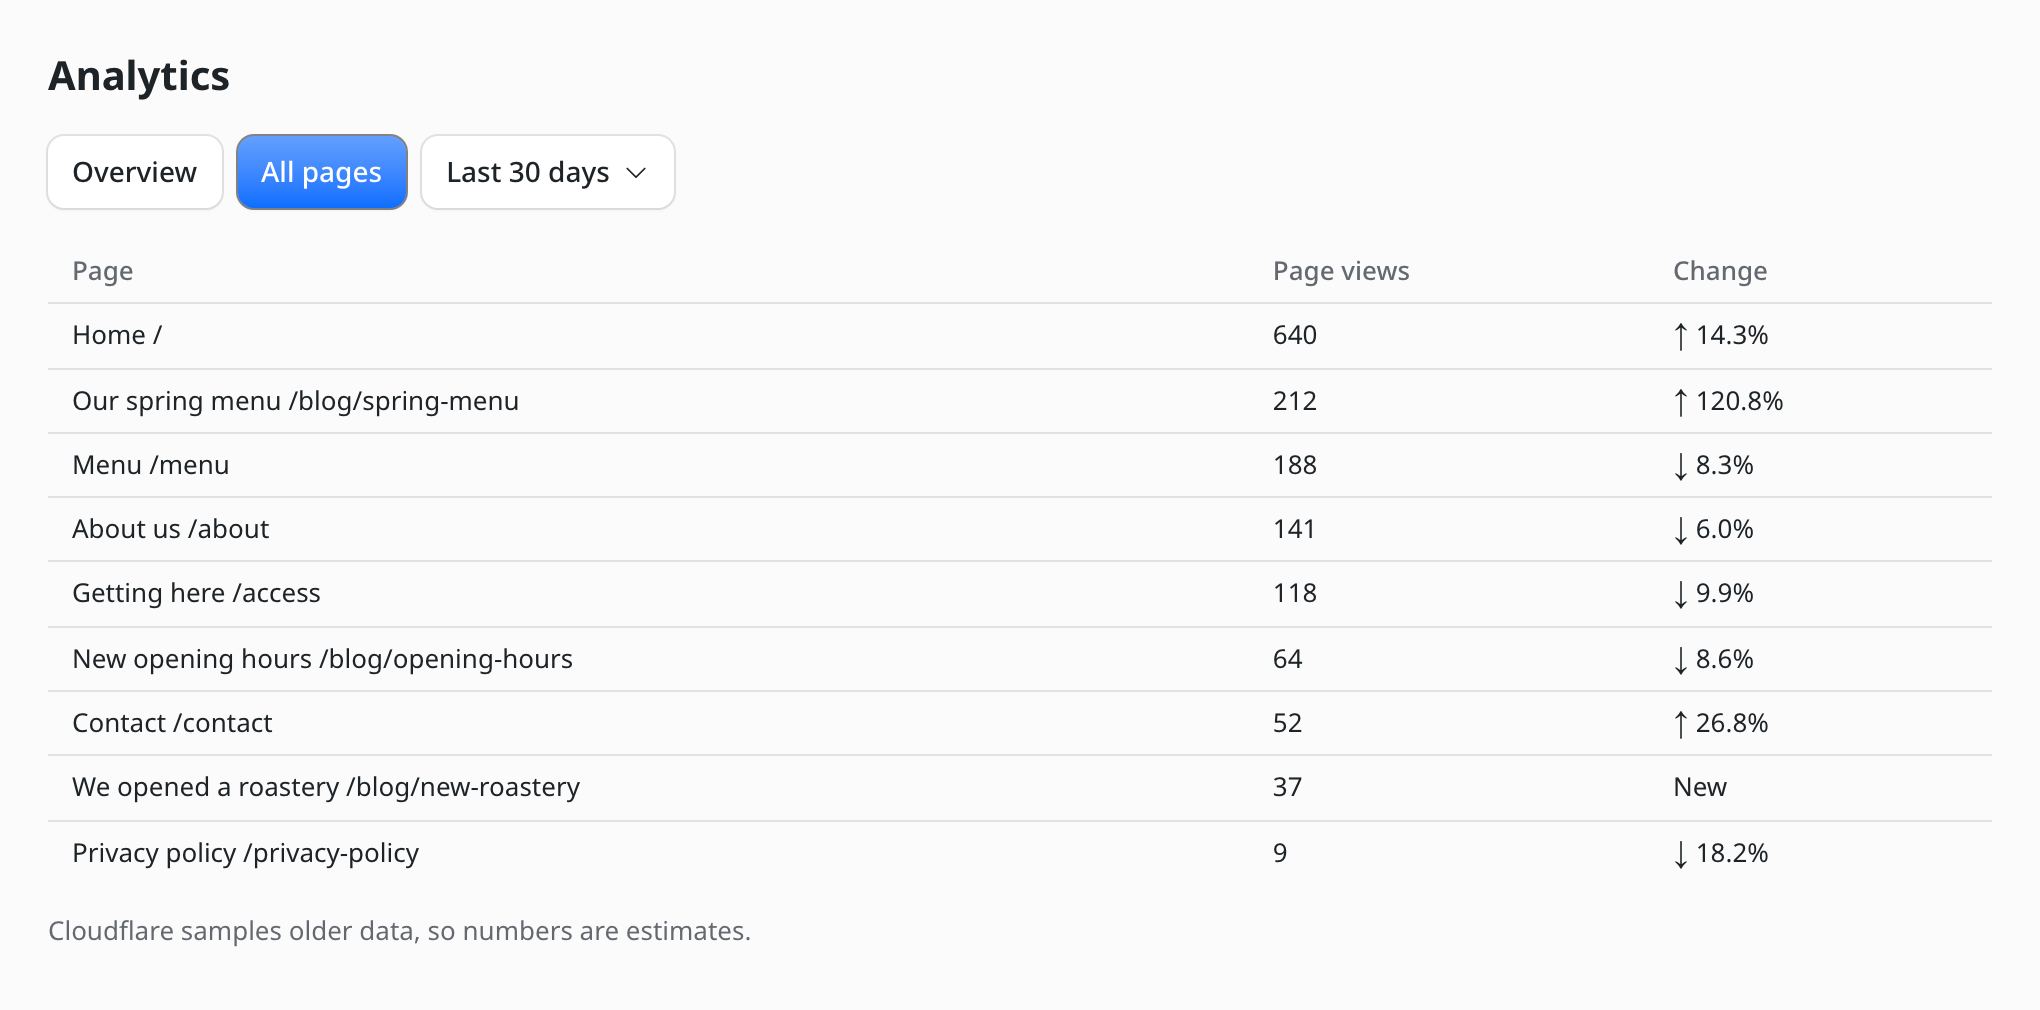
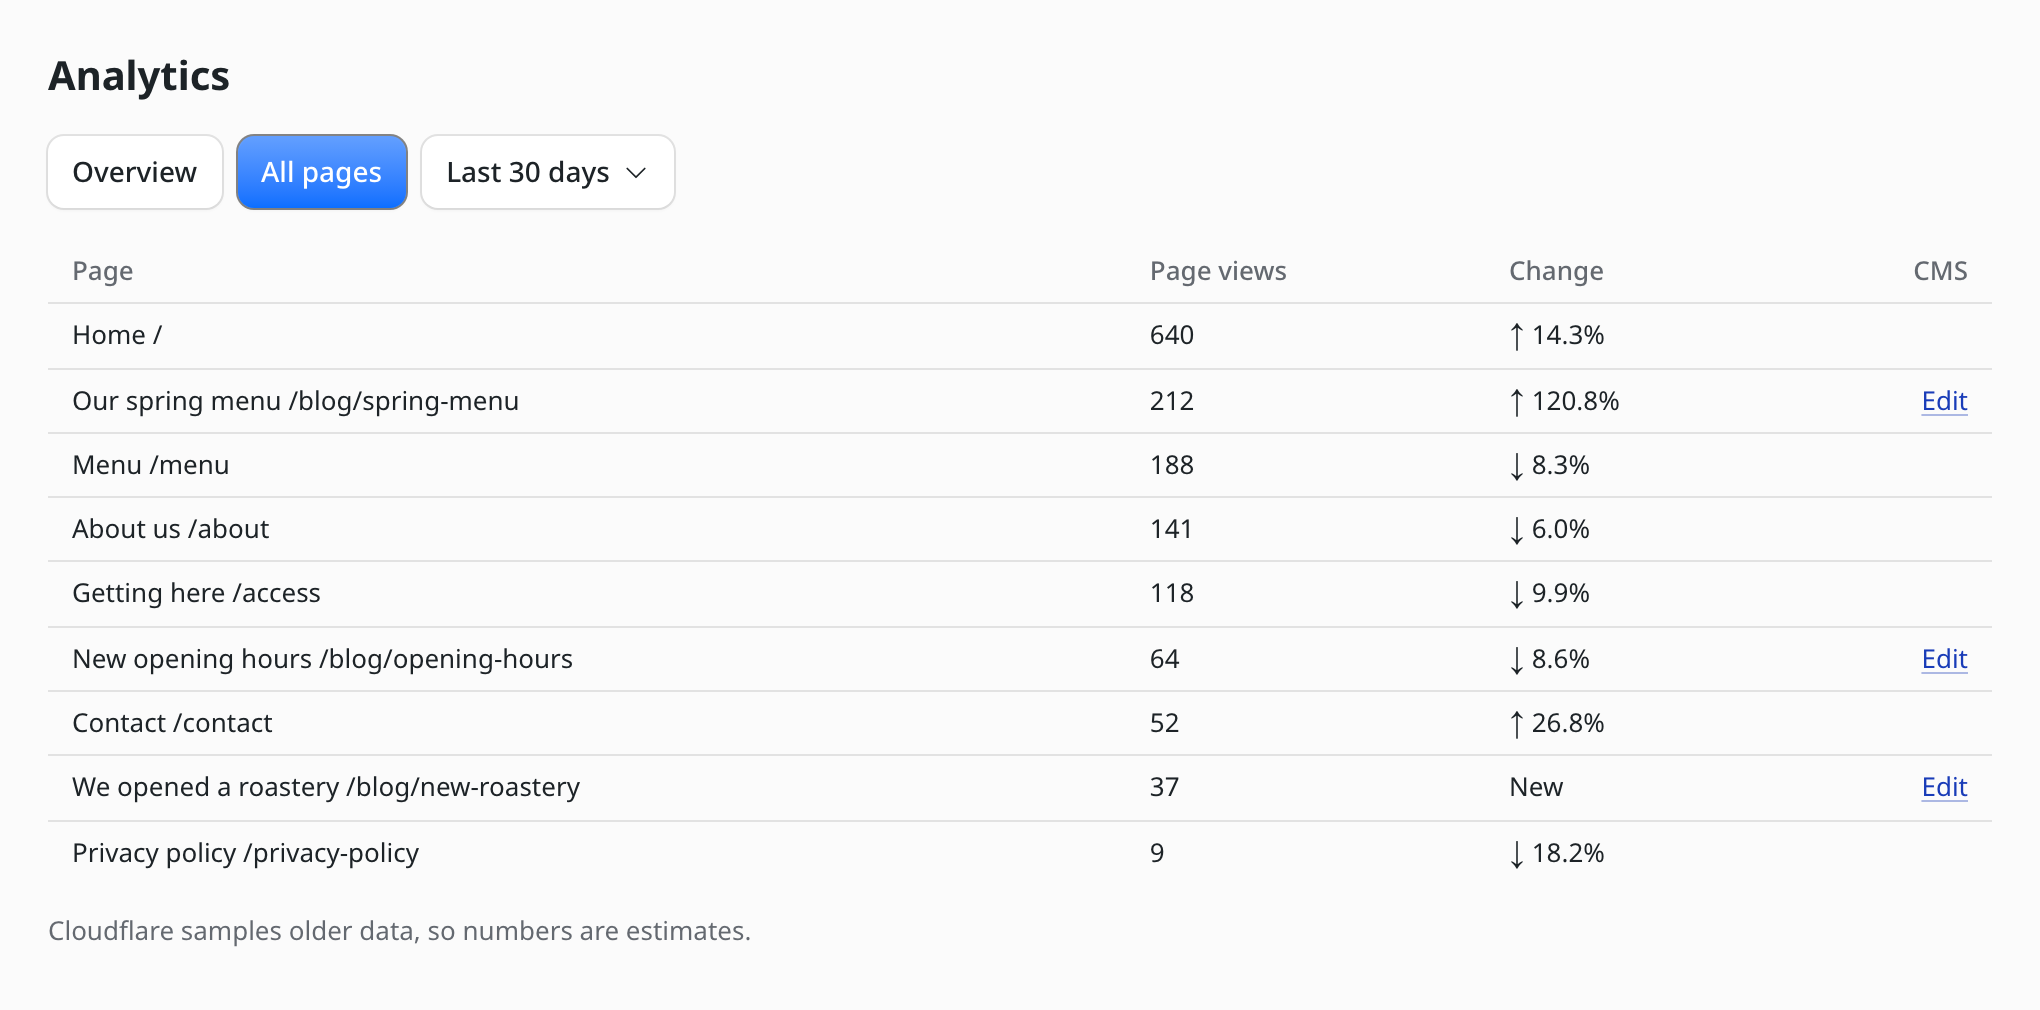
Link CMS pages in the page list to their editor
Studio marked CMS pages with a badge. A link to the entry's editor says
the same and saves the search. Renders now record the entry each page
shows along with its title.

diff --git a/src/view.ts b/src/view.ts
@@ -2,6 +2,7 @@ import type { Block, StatItem } from "@emdash-cms/blocks/server";
 
 import type { Report, Summary } from "./cloudflare.js";
 import type { Messages } from "./messages.js";
+import type { PageInfo } from "./pages.js";
 
 export const RANGES = [7, 30, 90] as const;
 export type Range = (typeof RANGES)[number];
@@ -45,11 +46,11 @@ function readablePath(path: string): string {
 	}
 }
 
-type Titles = Map<string, string>;
+type Pages = Map<string, PageInfo>;
 
 /** Studio's "Name /path" label; the home page's title is usually just the site name. */
-function pageLabel(path: string, titles: Titles, { messages }: View): string {
-	const name = path === "/" ? messages.home : titles.get(path);
+function pageLabel(path: string, pages: Pages, { messages }: View): string {
+	const name = path === "/" ? messages.home : pages.get(path)?.title;
 	return name ? `${name}  ${readablePath(path)}` : readablePath(path);
 }
 
@@ -124,7 +125,7 @@ function visitsStat(report: Summary, view: View): Block {
 	};
 }
 
-function insights(report: Report, titles: Titles, view: View): Block {
+function insights(report: Report, pages: Pages, view: View): Block {
 	const { messages, locale } = view;
 	const { totals, previous, days } = report;
 	const pageViewsChange = changeOf(totals.pageViews, previous.pageViews);
@@ -154,7 +155,7 @@ function insights(report: Report, titles: Titles, view: View): Block {
 		.filter((row): row is { page: Report["pages"][number]; change: number } => row.change !== null && row.change > 0)
 		.sort((a, b) => b.change - a.change)[0];
 	if (rising) {
-		items.push(stat(messages.trending(pageLabel(rising.page.path, titles, view)), rising.page.pageViews.toLocaleString(locale), rising.change, days, view));
+		items.push(stat(messages.trending(pageLabel(rising.page.path, pages, view)), rising.page.pageViews.toLocaleString(locale), rising.change, days, view));
 	}
 	return { type: "stats", items };
 }
@@ -232,7 +233,7 @@ function breakdowns(report: Report, view: View): Block {
 	};
 }
 
-export function reportPage(report: Report, titles: Titles, days: Range, view: View): Block[] {
+export function reportPage(report: Report, pages: Pages, days: Range, view: View): Block[] {
 	const { messages, locale } = view;
 	const top = report.pages.slice(0, TOP_PAGES);
 	const max = top[0]?.pageViews ?? 0;
@@ -249,7 +250,7 @@ export function reportPage(report: Report, titles: Titles, days: Range, view: Vi
 						? top.map(
 								(page): Block => ({
 									type: "meter",
-									label: pageLabel(page.path, titles, view),
+									label: pageLabel(page.path, pages, view),
 									value: page.pageViews,
 									max,
 									custom_value: page.pageViews.toLocaleString(locale),
@@ -264,13 +265,13 @@ export function reportPage(report: Report, titles: Titles, days: Range, view: Vi
 			],
 		},
 		{ type: "header", text: messages.insights(report.days) },
-		insights(report, titles, view),
+		insights(report, pages, view),
 		breakdowns(report, view),
 		{ type: "context", text: messages.sampled },
 	];
 }
 
-export function pagesPage(report: Report, titles: Titles, days: Range, view: View): Block[] {
+export function pagesPage(report: Report, pages: Pages, days: Range, view: View): Block[] {
 	const { messages, locale } = view;
 	return [
 		{ type: "header", text: messages.title },
@@ -283,14 +284,20 @@ export function pagesPage(report: Report, titles: Titles, days: Range, view: Vie
 				{ key: "path", label: messages.page },
 				{ key: "pageViews", label: messages.pageViews, format: "number" },
 				{ key: "change", label: messages.change },
+				// Studio marked CMS pages with a badge; a link to the editor says the same and saves a search.
+				{ key: "cms", label: messages.cms, format: "element" },
 			],
 			rows: report.pages.map((page) => {
 				const change = changeOf(page.pageViews, page.previousPageViews);
 				const arrow = change === null ? "" : change > 0 ? "↑ " : change < 0 ? "↓ " : "";
+				const content = pages.get(page.path)?.content;
 				return {
-					path: pageLabel(page.path, titles, view),
+					path: pageLabel(page.path, pages, view),
 					pageViews: page.pageViews,
 					change: change === null ? messages.newPage : arrow + percent(change, locale, "never"),
+					...(content && {
+						cms: { type: "link", label: messages.edit, target: { kind: "content", ...content } },
+					}),
 				};
 			}),
 			empty_text: messages.empty,

diff --git a/tests/plugin.test.ts b/tests/plugin.test.ts
@@ -143,17 +143,41 @@ describe("report page", () => {
 		await connectedHost();
 		await respond(report);
 		await host!.admin.loadPage("/report");
-		const render = (path: string, pageTitle: string) =>
+		const render = (path: string, pageTitle: string, content?: { collection: string; id: string; slug: string }) =>
 			host!.transport.invokeHook("page:metadata", {
-				page: { url: `https://example.com${path}`, path, locale: null, kind: "custom", pageType: "website", title: `${pageTitle} | Site`, pageTitle, description: null, canonical: null, image: null },
+				page: {
+					url: `https://example.com${path}`,
+					path,
+					locale: null,
+					kind: content ? "content" : "custom",
+					pageType: "website",
+					title: `${pageTitle} | Site`,
+					pageTitle,
+					description: null,
+					canonical: null,
+					image: null,
+					content,
+				},
 			});
 		await render("/about", "About us");
+		await render("/news/%E3%81%8A%E7%9F%A5%E3%82%89%E3%81%9B", "Notice", { collection: "news", id: "01NEWS", slug: "notice" });
 		await render("/wp-login.php", "Not found");
 
 		const page = await host!.admin.loadPage("/report");
-		expect(findBlocks(page.blocks, "meter").map((meter: any) => meter.label)).toEqual(["Home  /", "About us  /about", "/news/お知らせ"]);
-		const titles: Record<string, string | null> = (await host!.inspect.kv.get("state:pageTitles"))!;
-		expect(Object.keys(titles)).not.toContain("/wp-login.php");
+		expect(findBlocks(page.blocks, "meter").map((meter: any) => meter.label)).toEqual([
+			"Home  /",
+			"About us  /about",
+			"Notice  /news/お知らせ",
+		]);
+		const pages: Record<string, unknown> = (await host!.inspect.kv.get("state:pages"))!;
+		expect(Object.keys(pages)).not.toContain("/wp-login.php");
+
+		const list = await host!.admin.act("/report", "show", { value: "pages:30" });
+		expect(findBlock(list.blocks, "table").rows.map((row: any) => row.cms ?? null)).toEqual([
+			null,
+			null,
+			{ type: "link", label: "Edit", target: { kind: "content", collection: "news", id: "01NEWS" } },
+		]);
 		expect(host!.http.requests()).toHaveLength(1);
 	});
 

diff --git a/src/pages.ts b/src/pages.ts
@@ -1,0 +1,51 @@
+import type { PluginContext } from "emdash/plugin";
+
+/** What a render tells the plugin about a page. */
+export interface PageInfo {
+	title: string;
+	/** Set when the page shows a CMS entry, so the report can link to its editor. */
+	content?: { collection: string; id: string };
+}
+
+/**
+ * Page details, keyed by request path. Web Analytics records paths only, so the
+ * plugin learns each page's name when the site renders it. A path the report has
+ * asked about but no render has described yet maps to null.
+ *
+ * Only paths the report asks about are kept, so renders of 404s for paths bots
+ * make up never add entries.
+ */
+type Pages = Record<string, PageInfo | null>;
+
+const KEY = "state:pages";
+
+/** Keeps the document small if a site's paths churn over the years. */
+const MAX_PATHS = 1000;
+
+async function read(ctx: PluginContext): Promise<Pages> {
+	return (await ctx.kv.get<Pages>(KEY)) ?? {};
+}
+
+function same(a: PageInfo | null | undefined, b: PageInfo): boolean {
+	return a?.title === b.title && a.content?.collection === b.content?.collection && a.content?.id === b.content?.id;
+}
+
+/** Called on every public render; writes only when a wanted path's details change. */
+export async function recordPage(ctx: PluginContext, path: string, info: PageInfo): Promise<void> {
+	if (!info.title.trim()) return;
+	const pages = await read(ctx);
+	if (!(path in pages) || same(pages[path], info)) return;
+	pages[path] = info;
+	await ctx.kv.set(KEY, pages);
+}
+
+/** Returns what is known about `paths` and asks future renders to describe the rest. */
+export async function pagesFor(ctx: PluginContext, paths: string[]): Promise<Map<string, PageInfo>> {
+	const pages = await read(ctx);
+	const missing = paths.filter((path) => !(path in pages));
+	if (missing.length) {
+		const kept = Object.entries(pages).slice(-(MAX_PATHS - missing.length));
+		await ctx.kv.set(KEY, Object.fromEntries([...kept, ...missing.map((path) => [path, null])]));
+	}
+	return new Map(paths.flatMap((path) => (pages[path] ? [[path, pages[path]] as const] : [])));
+}

diff --git a/src/plugin.ts b/src/plugin.ts
@@ -5,7 +5,7 @@ import { z } from "zod";
 import { CloudflareError, loadReport, loadSummary, type Connection } from "./cloudflare.js";
 import { isTimeZone } from "./dates.js";
 import { messagesFor } from "./messages.js";
-import { recordTitle, titlesFor } from "./titles.js";
+import { pagesFor, recordPage } from "./pages.js";
 import { failure, pagesPage, parseShowValue, reportPage, reportWidget, setupNeeded, SHOW_ACTION, type Range, type Section } from "./view.js";
 
 const WIDGET_PAGE = "widget:overview";
@@ -48,7 +48,11 @@ const plugin: SandboxedPlugin = {
 	hooks: {
 		"page:metadata": {
 			handler: async (event, ctx) => {
-				await recordTitle(ctx, event.page.path, event.page.pageTitle ?? event.page.title);
+				const { path, pageTitle, title, content } = event.page;
+				await recordPage(ctx, path, {
+					title: (pageTitle ?? title ?? "").trim(),
+					...(content && { content: { collection: content.collection, id: content.id } }),
+				});
 				return null;
 			},
 		},
@@ -89,9 +93,9 @@ const plugin: SandboxedPlugin = {
 					}
 					// The overview and the page list read the same report, so one fetch serves both.
 					const report = await cached(ctx, key("report"), () => loadReport(fetch, connection, days));
-					const titles = await titlesFor(ctx, report.pages.map((page) => page.path));
+					const pages = await pagesFor(ctx, report.pages.map((page) => page.path));
 					return {
-						blocks: section === "pages" ? pagesPage(report, titles, days, view) : reportPage(report, titles, days, view),
+						blocks: section === "pages" ? pagesPage(report, pages, days, view) : reportPage(report, pages, days, view),
 					};
 				} catch (error) {
 					if (!(error instanceof CloudflareError)) throw error;

diff --git a/src/messages.ts b/src/messages.ts
@@ -21,6 +21,8 @@ const en = {
 	pageViews: "Page views",
 	visits: "Visits",
 	change: "Change",
+	cms: "CMS",
+	edit: "Edit",
 	newPage: "New",
 	more: "Referrers, devices and countries",
 	referrers: "Referrers",
@@ -67,6 +69,8 @@ const ja: Messages = {
 	pageViews: "ページビュー",
 	visits: "訪問数",
 	change: "増加率",
+	cms: "CMS",
+	edit: "編集する",
 	newPage: "新規",
 	more: "参照元・端末・国",
 	referrers: "参照元",

diff --git a/README.md b/README.md
@@ -3,13 +3,13 @@
 An [EmDash CMS](https://emdashcms.com) plugin that shows your site's [Cloudflare Web Analytics](https://developers.cloudflare.com/web-analytics/) in the admin, so editors can see how the site is doing without a Cloudflare login.
 
 - **Overview:** site visits for the last 7, 30 or 90 days with a daily chart, the top pages, and insights on page views and the fastest-growing page, each compared with the period before. Referrers, devices and countries are one click away.
-- **All pages:** every page's views and its change from the previous period.
+- **All pages:** every page's views and its change from the previous period, with a link to the editor for pages that show a CMS entry.
 - **Dashboard widget:** the last 7 days at a glance.
 - **English and Japanese:** the page and widget follow the admin's language.
 
 ![The overview: site visits with a daily chart, the top pages, and insight cards](https://raw.githubusercontent.com/Chiji1108/emdash-plugin-cloudflare-analytics/main/docs/overview.png)
 
-![All pages: each page's name, page views and change from the previous period](https://raw.githubusercontent.com/Chiji1108/emdash-plugin-cloudflare-analytics/main/docs/pages.png)
+![All pages: each page's name, page views, change from the previous period and a link to its CMS entry](https://raw.githubusercontent.com/Chiji1108/emdash-plugin-cloudflare-analytics/main/docs/pages.png)
 
 The screenshots use made-up data.
 
